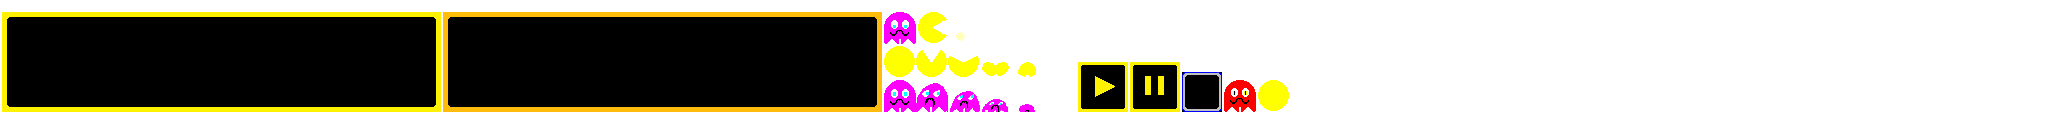
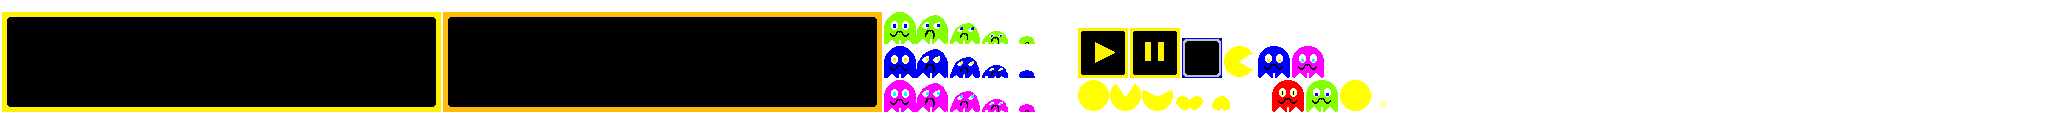
diff types of ghosts

Changed region(s): [[0.4062, 0.0938, 0.6875, 0.875]]

diff --git a/core/src/units/Enemy.java b/core/src/units/Enemy.java
@@ -17,24 +17,40 @@ public class Enemy extends CharacterBase {
     private boolean dying;
     private Vector3 last_position;
 
-    public Enemy(GameScreen game_screen, TextureAtlas atlas){
+    public Enemy(GameScreen game_screen, TextureAtlas atlas, int type){
         game = game_screen;
-        gen_texture = atlas.findRegion("purple_ghost_down");
         eat_texture = atlas.findRegion("ghost_alert");
         hp_texture = atlas.findRegion("hpbar");
-        curr_texture = atlas.findRegion("purple_ghost_down");
-        death = atlas.findRegion("ghost_death").split(SIZE, SIZE)[0];
         position = new Vector2(0, 0);
         last_position = new Vector3(0, 0, 0);
         dying = false;
-        speed = 80;
-        max_hp = 10;
-        curr_hp = max_hp;
         timer = 0;
         max_timer = 3f;
         active = false;
         tmp = new Vector2(0, 0);
         direction = Direction.UP;
+        switch (type){
+            case 0:
+                gen_texture = atlas.findRegion("purple_ghost");
+                death = atlas.findRegion("purple_ghost_death").split(SIZE, SIZE)[0];
+                speed = 80;
+                max_hp = 5;
+                break;
+            case 1:
+                gen_texture = atlas.findRegion("blue_ghost");
+                death = atlas.findRegion("blue_ghost_death").split(SIZE, SIZE)[0];
+                speed = 120;
+                max_hp = 1;
+                break;
+            case 2:
+                gen_texture = atlas.findRegion("green_ghost");
+                death = atlas.findRegion("green_ghost_death").split(SIZE, SIZE)[0];
+                speed = 50;
+                max_hp = 10;
+                break;
+        }
+        curr_hp = max_hp;
+        curr_texture = gen_texture;
     }
 
     public void render(SpriteBatch batch) {
@@ -62,7 +78,6 @@ public class Enemy extends CharacterBase {
 
     public void activate(float x, float y) {
         active = true;
-        speed = 80;
         curr_texture = gen_texture;
         curr_hp = max_hp;
         position.set(x, y);

diff --git a/core/src/sys/MyGame.java b/core/src/sys/MyGame.java
@@ -4,10 +4,24 @@ import com.badlogic.gdx.Game;
 import com.badlogic.gdx.Gdx;
 import com.badlogic.gdx.graphics.g2d.SpriteBatch;
 
-import static sys.ScreenManager.ScreenType.GAME;
-import static sys.ScreenManager.ScreenType.MENU;
+
+/*TODO
+	пересчет размера экрана для кнопок и чтобы призраки не застревали в текстурках при масштабировании
+	вьюпорт страшная вещь я не понимаю как с ним работать,,,,,,,,,,,,,,,
+	for now масштабирование отключено
+	поменять кнопку паузы в GameScreen там стоит свой туду коммент
+	пофиксить анимацию съедания чтобы она запускалась при контакте с самой пулей а не с квадратом 40х40
+	еще чтобы она не запускалась при обычном движении
+
+на будущее:
+	добавить какие-нибудь баффы при убийстве призраков типа если убил зеленого получаешь щит если синего - ускорение
+	общий скор и выгрузку в файл для сохранения результатов
+	чтобы уровень ресетился автоматически при победе и игра продолжалась до первой смерти
+	соответственно возрастание уровня сложности (по количеству призраков и их скорости/хп или ограничить количество пуль на поле)
+ */
 
 public class MyGame extends Game {
+
 	private SpriteBatch batch;
 	
 	@Override

diff --git a/core/src/sys/ScreenManager.java b/core/src/sys/ScreenManager.java
@@ -3,6 +3,8 @@ package sys;
 import com.badlogic.gdx.Game;
 import com.badlogic.gdx.Screen;
 import com.badlogic.gdx.graphics.g2d.SpriteBatch;
+import com.badlogic.gdx.utils.viewport.FitViewport;
+import com.badlogic.gdx.utils.viewport.Viewport;
 
 public class ScreenManager {
     public enum ScreenType {
@@ -11,11 +13,16 @@ public class ScreenManager {
     private static ScreenManager ourInstance = new ScreenManager();
     public static ScreenManager getInstance() { return ourInstance; }
     private ScreenManager() {}
+
+    public static final int WORLD_WIDTH = 1280;
+    public static final int WORLD_HEIGHT = 720;
     private Game game;
     private GameScreen game_screen;
     private MenuScreen menu_screen;
     private ControlsScreen controls_screen;
     private GameOverScreen gameover_screen;
+    private Viewport viewport;
+
 
     public void init(Game game, SpriteBatch batch) {
         this.game = game;
@@ -23,12 +30,23 @@ public class ScreenManager {
         menu_screen = new MenuScreen(batch);
         controls_screen = new ControlsScreen(batch);
         gameover_screen = new GameOverScreen(batch, 0);
+        viewport = new FitViewport(WORLD_WIDTH, WORLD_HEIGHT);
+    }
+
+    public Viewport getViewport() {
+        return viewport;
+    }
+
+    public void resize(int width, int height) {
+        viewport.update(width, height);
+        viewport.apply();
     }
 
     public void setResult(int n, boolean res) {
         gameover_screen.setScore(n);
         gameover_screen.setWin(res);
     }
+
     public void setScreen(ScreenType type) {
         Screen curr_screen = game.getScreen();
         switch (type) {

diff --git a/core/src/sys/ControlsScreen.java b/core/src/sys/ControlsScreen.java
@@ -21,9 +21,10 @@ public class ControlsScreen extends SimpleScreen {
         update(delta);
         batch.begin();
         stage.draw();
-        font.draw(batch, "Use WASD or arrow keys to move", (float) Gdx.graphics.getWidth()/2-400, (float) Gdx.graphics.getHeight()*10/12);
-        font.draw(batch, "Collect bullets and shoot ghosts by pressing space", (float) Gdx.graphics.getWidth()/2-400, (float) Gdx.graphics.getHeight()*9/12);
-        font.draw(batch, "Don't let the ghosts touch you", (float) Gdx.graphics.getWidth()/2-400, (float) Gdx.graphics.getHeight()*8/12);
+        font.draw(batch, "Use WASD or arrow keys to move", (float) Gdx.graphics.getWidth()/2-400, (float) Gdx.graphics.getHeight()*11/12);
+        font.draw(batch, "Collect bullets and shoot ghosts by pressing space", (float) Gdx.graphics.getWidth()/2-400, (float) Gdx.graphics.getHeight()*10/12);
+        font.draw(batch, "Don't let the ghosts touch you", (float) Gdx.graphics.getWidth()/2-400, (float) Gdx.graphics.getHeight()*9/12);
+        font.draw(batch, "Green = slow, Blue = fast", (float) Gdx.graphics.getWidth()/2-400, (float) Gdx.graphics.getHeight()*8/12);
         font.draw(batch, "Levels are generated randomly, you can re-generate the level", (float) Gdx.graphics.getWidth()/2-400, (float) Gdx.graphics.getHeight()*7/12);
         font.draw(batch, "if it looks wrong", (float) Gdx.graphics.getWidth()/2-400, (float) Gdx.graphics.getHeight()*6/12);
         batch.end();

diff --git a/core/src/sys/SimpleScreen.java b/core/src/sys/SimpleScreen.java
@@ -17,6 +17,8 @@ public abstract class SimpleScreen implements Screen {
     protected TextureAtlas atlas;
     protected BitmapFont font;
     protected Stage stage;
+    protected int world_width;
+    protected int world_height;
 
     @Override
     public void show() {
@@ -52,7 +54,9 @@ public abstract class SimpleScreen implements Screen {
     public void render(float delta) {    }
 
     @Override
-    public void resize(int width, int height) {    }
+    public void resize(int width, int height) {
+        ScreenManager.getInstance().resize(width, height);
+    }
 
     @Override
     public void pause() {    }

diff --git a/core/src/units/EnemyStack.java b/core/src/units/EnemyStack.java
@@ -1,6 +1,7 @@
 package units;
 import com.badlogic.gdx.graphics.g2d.SpriteBatch;
 import com.badlogic.gdx.graphics.g2d.TextureAtlas;
+import com.badlogic.gdx.math.MathUtils;
 import sys.GameScreen;
 
 public class EnemyStack {
@@ -9,7 +10,8 @@ public class EnemyStack {
     public EnemyStack(GameScreen game_screen, TextureAtlas atlas) {
         enemies = new Enemy[5];
         for (int i = 0; i < enemies.length; ++i){
-            enemies[i] = new Enemy(game_screen, atlas);
+            int type = MathUtils.random(0, 2);
+            enemies[i] = new Enemy(game_screen, atlas, type);
         }
     }
 

diff --git a/desktop/src/com/mygdx/game/DesktopLauncher.java b/desktop/src/com/mygdx/game/DesktopLauncher.java
@@ -10,7 +10,7 @@ public class DesktopLauncher {
 	public static void main (String[] arg) {
 		Lwjgl3ApplicationConfiguration config = new Lwjgl3ApplicationConfiguration();
 		config.setForegroundFPS(60);
-		config.setTitle("pacman_game");
+		config.setTitle("pacman game");
 		config.setWindowedMode(1280, 720);
 		config.setResizable(false);
 		config.setWindowIcon(Files.FileType.Internal, "pacman2.png");

diff --git a/core/src/sys/GameScreen.java b/core/src/sys/GameScreen.java
@@ -39,7 +39,7 @@ public class GameScreen extends SimpleScreen {
         bullet_stack = new BulletStack(atlas);
         music = Gdx.audio.newMusic(Gdx.files.internal("main_theme.mp3"));
         music.setLooping(true);
-        music.play();
+        //music.play();
         map = new Map(atlas);
         enemy_stack = new EnemyStack(this, atlas);
         activateEnemies();
